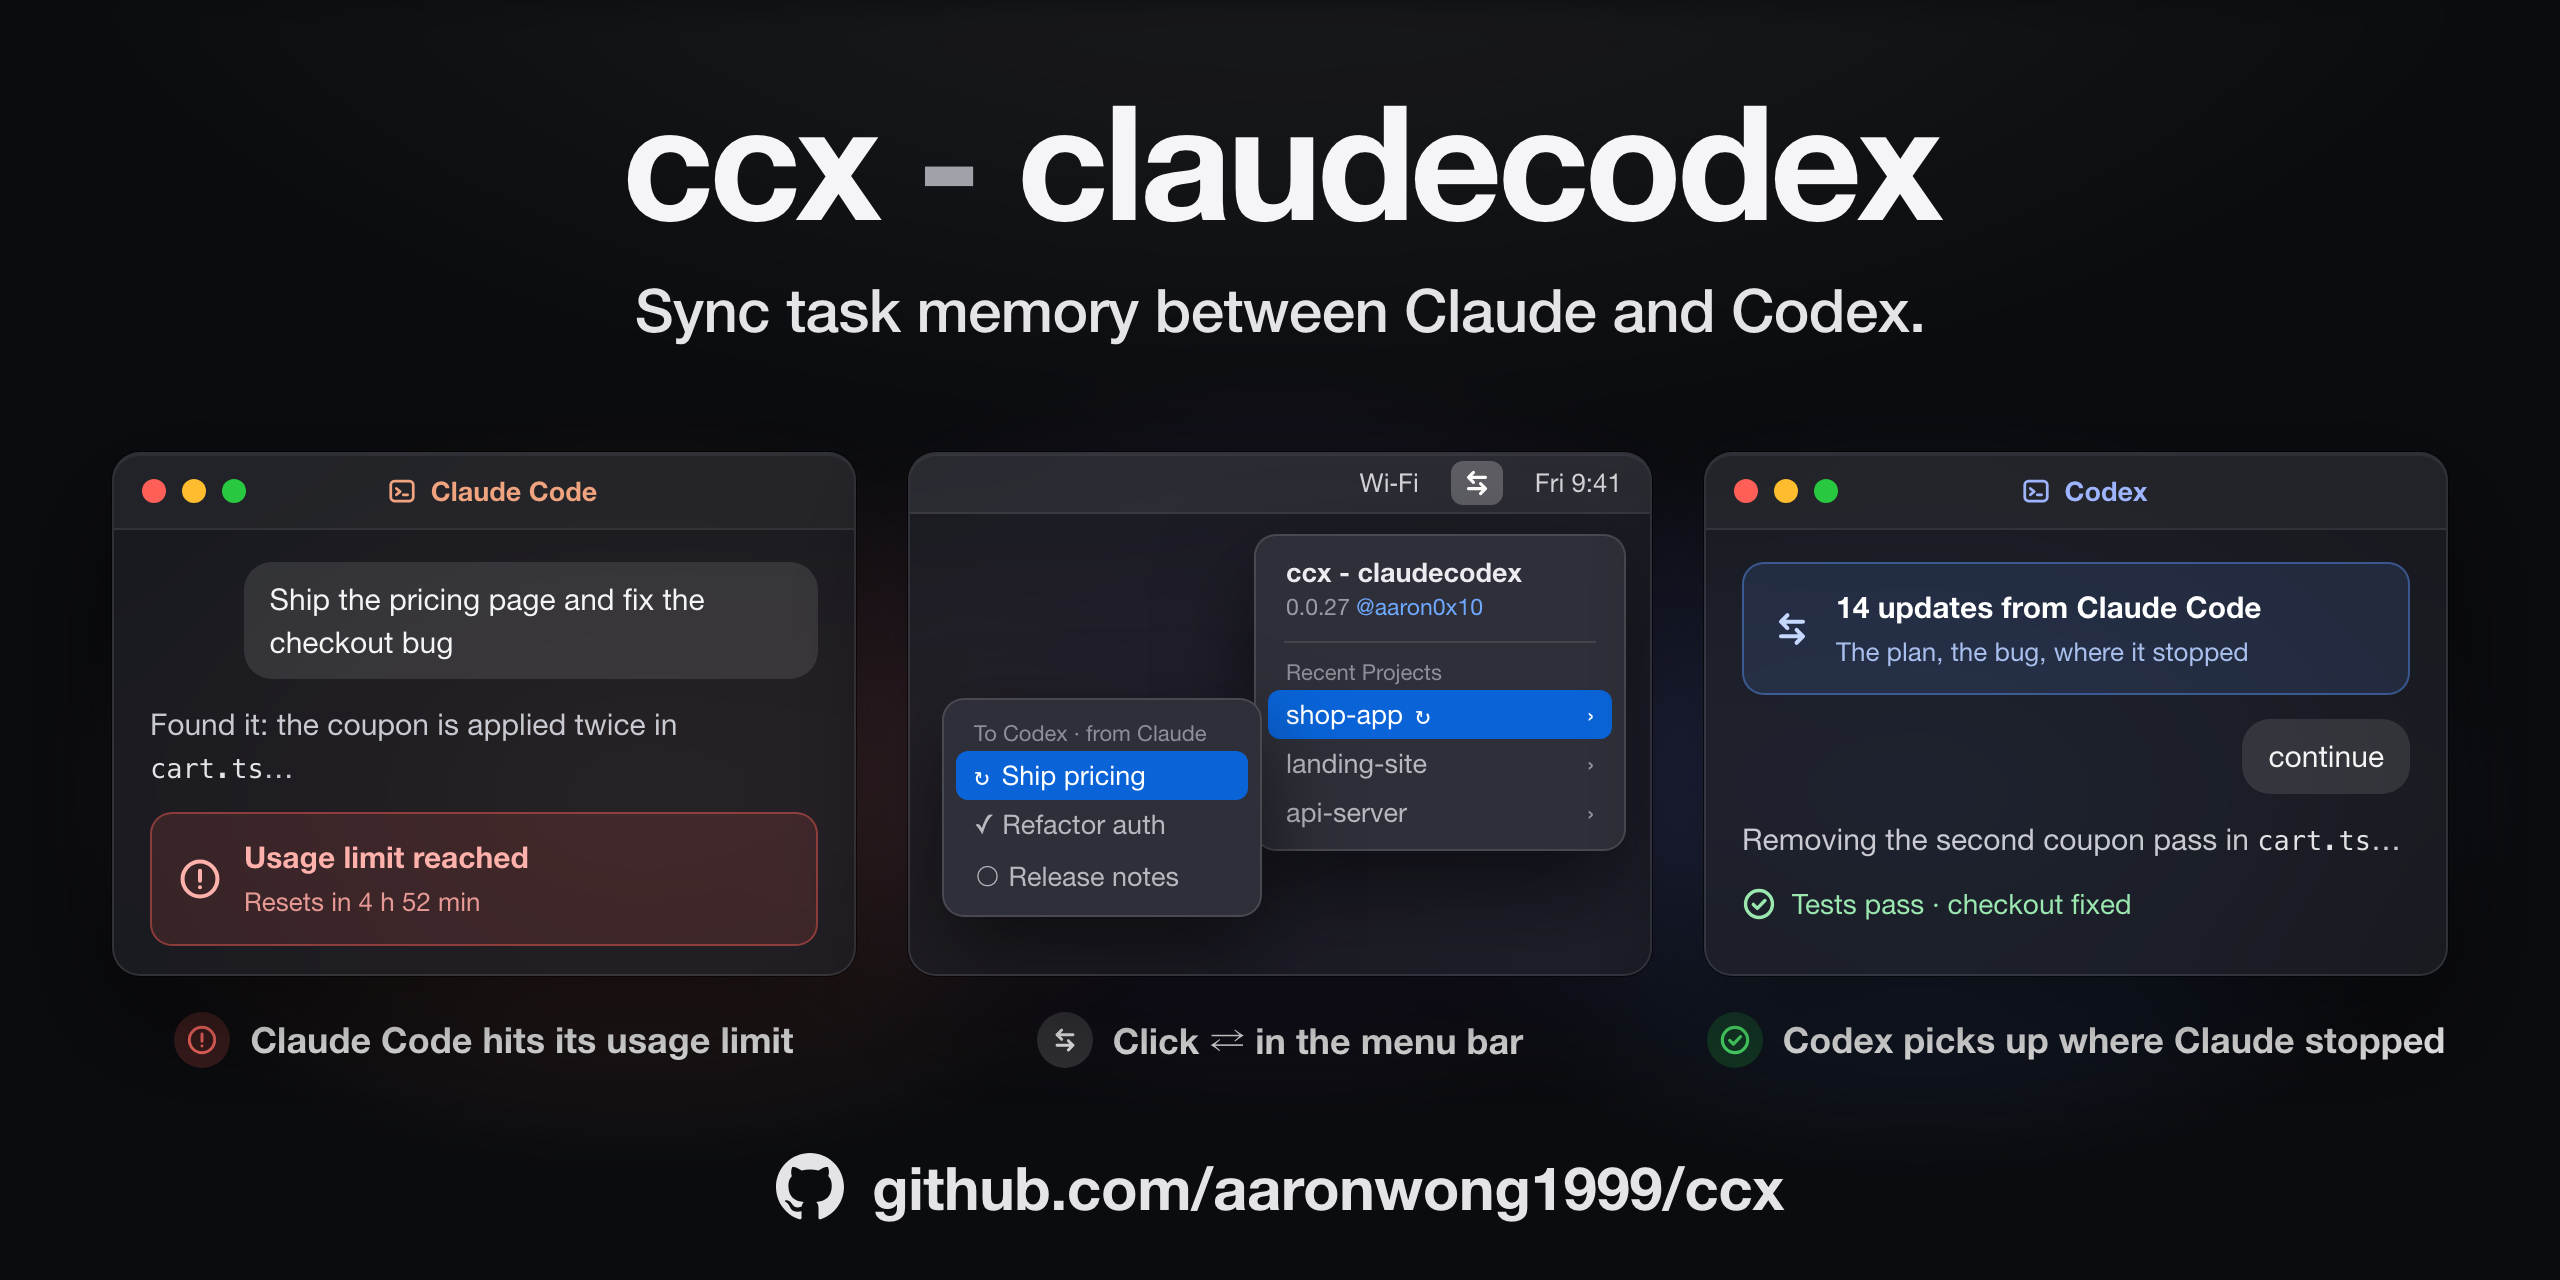
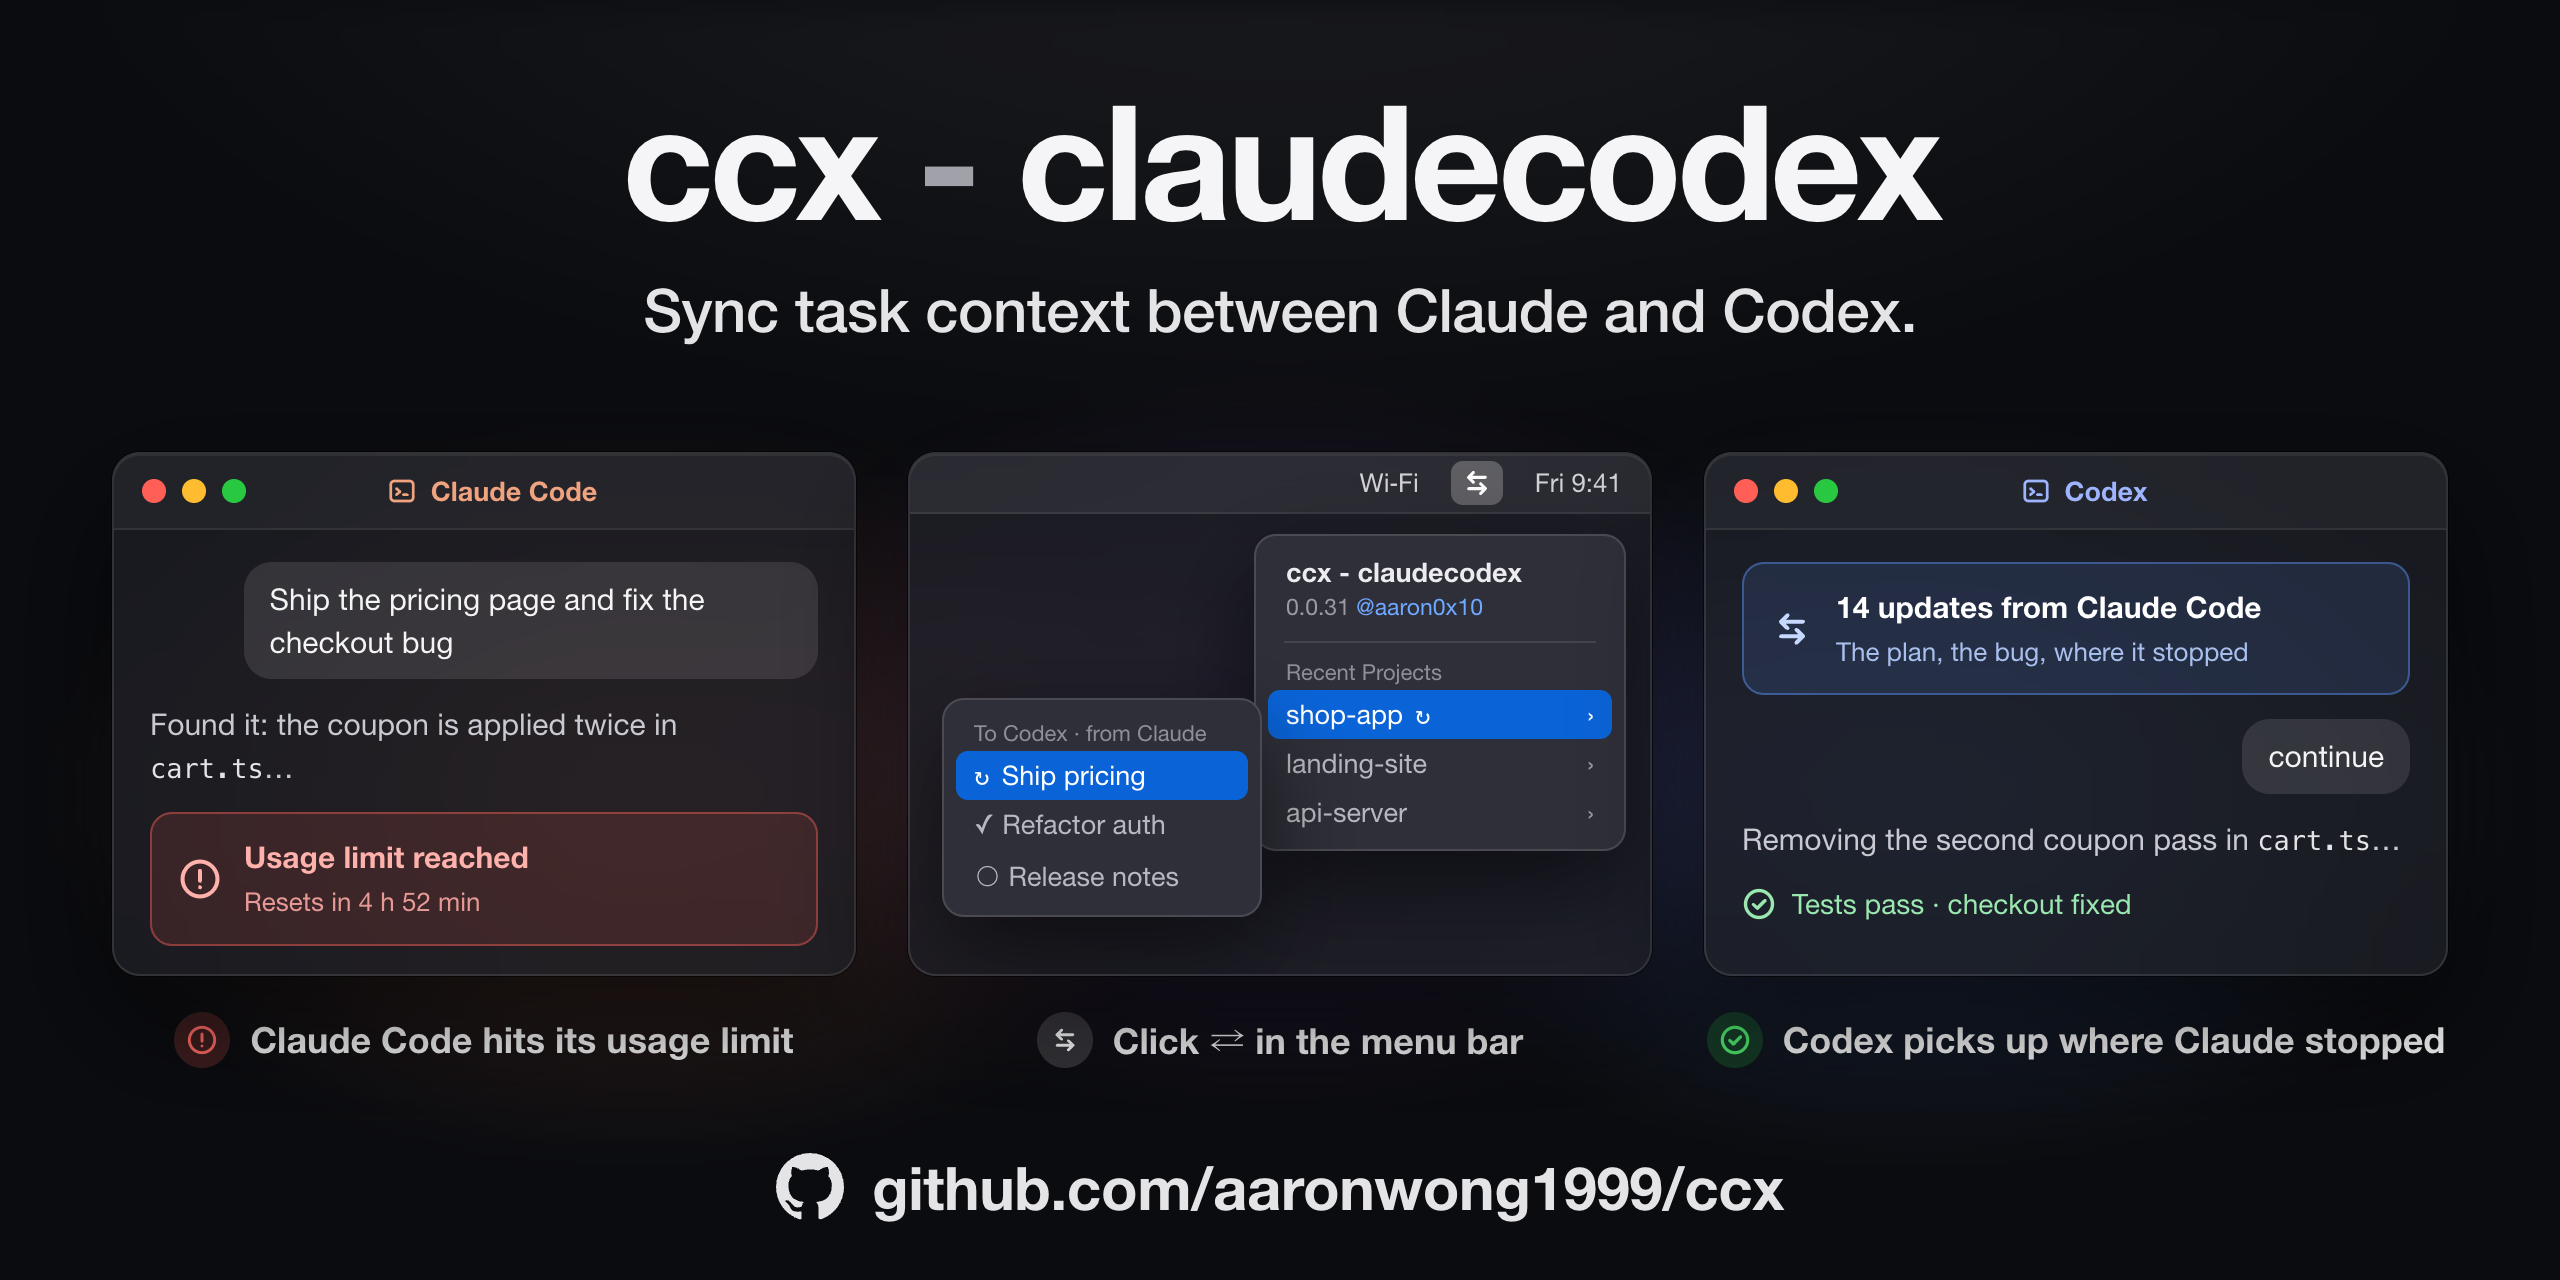
ccx - claudecodex 0.0.31: sync task context
"Sync task memory" read like the long-term memory tools (CLAUDE.md, Codex
Memories, memory layers). ccx carries an in-progress task's context, so the
tagline is now "Sync task context between Claude and Codex." in the menu
bar (在 Claude 和 Codex 之间同步任务上下文), both plugin manifests, the
marketplace entry and the README hero image.

Changed region(s): [[0.25, 0.2188, 0.75, 0.2812]]

diff --git a/menubar/main.swift b/menubar/main.swift
@@ -274,7 +274,7 @@ final class App: NSObject, NSApplicationDelegate, NSMenuDelegate {
             .font: NSFont.systemFont(ofSize: 11), .foregroundColor: NSColor.secondaryLabelColor]))
         title.append(NSAttributedString(string: "@aaron0x10", attributes: [
             .font: NSFont.systemFont(ofSize: 11), .foregroundColor: NSColor.linkColor]))
-        title.append(NSAttributedString(string: "\n" + L("Sync task memory between Claude and Codex.", "在 Claude 和 Codex 之间同步任务记忆。"),
+        title.append(NSAttributedString(string: "\n" + L("Sync task context between Claude and Codex.", "在 Claude 和 Codex 之间同步任务上下文。"),
                                         attributes: [.font: NSFont.systemFont(ofSize: NSFont.smallSystemFontSize),
                                                      .foregroundColor: NSColor.secondaryLabelColor]))
         head.attributedTitle = title

diff --git a/docs/hero.html b/docs/hero.html
@@ -97,7 +97,7 @@
 
   <header>
     <h1>ccx <span class="dim">-</span> claudecodex</h1>
-    <div class="slogan">Sync task memory between Claude and Codex.</div>
+    <div class="slogan">Sync task context between Claude and Codex.</div>
   </header>
 
   <div class="row">
@@ -120,7 +120,7 @@
         <div class="menus">
           <div class="menu main">
             <div class="hd"><b>ccx - claudecodex</b>
-              <div>0.0.27 <u style="text-decoration:none;color:#6ea8ff">@aaron0x10</u></div></div>
+              <div>0.0.31 <u style="text-decoration:none;color:#6ea8ff">@aaron0x10</u></div></div>
             <div class="sep"></div>
             <div class="cap">Recent Projects</div>
             <div class="it sel">shop-app <span class="up">↻</span><span class="chev">›</span></div>

diff --git a/plugins/ccx/lib/ccx/__init__.py b/plugins/ccx/lib/ccx/__init__.py
@@ -1,1 +1,1 @@
-__version__ = "0.0.30"
+__version__ = "0.0.31"
